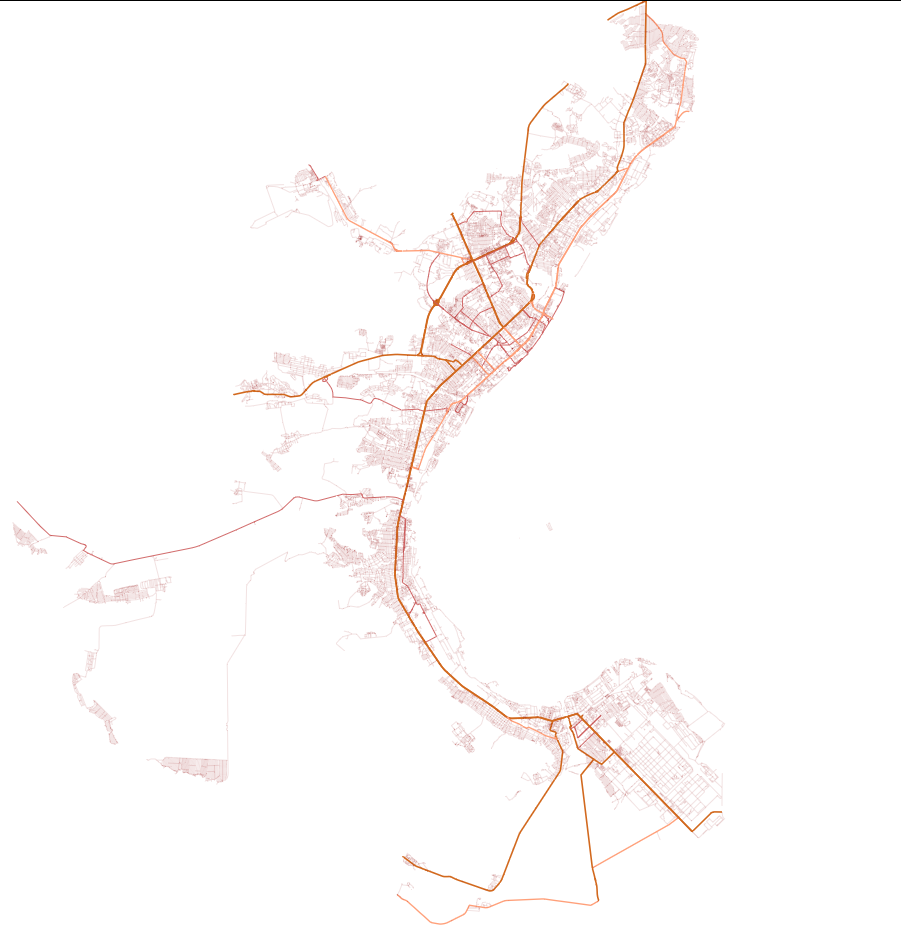
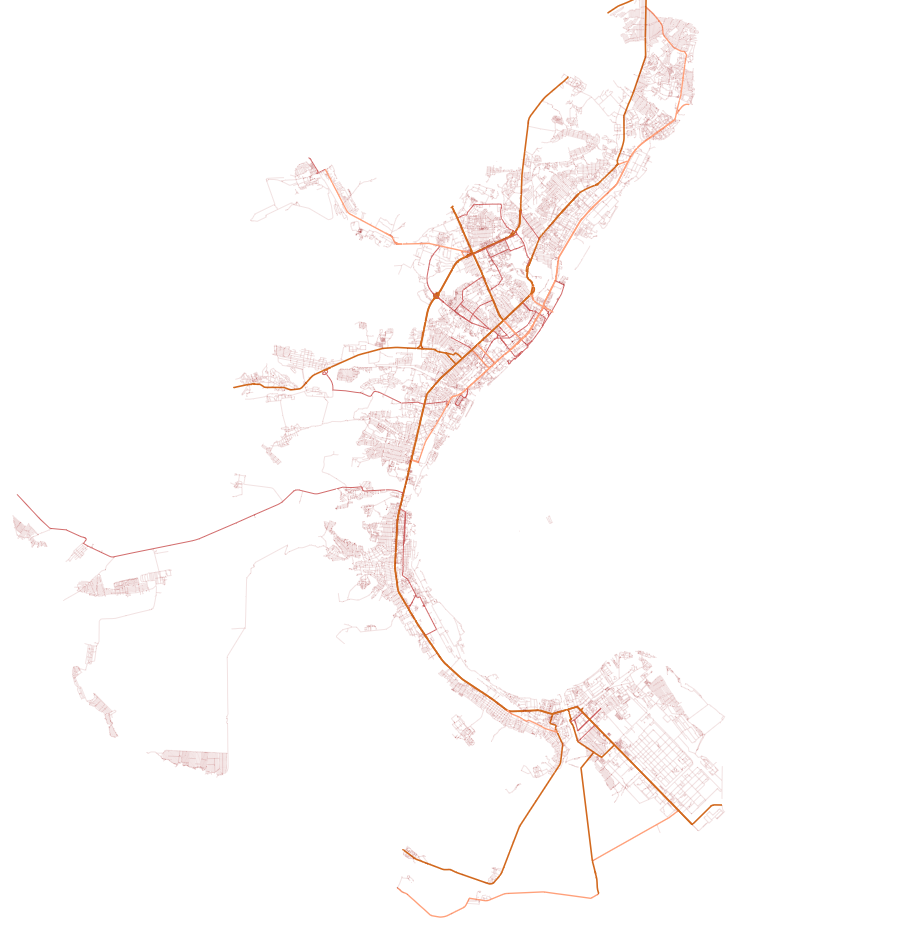
add result for volgograd

diff --git a/docs/volgograd.md b/docs/volgograd.md
@@ -1,6 +1,75 @@
 # Результаты для Волгограда
 
+___
 
-* [Информация о вершинах](https://github.com/bruce-willis/City-Roads/blob/develop/src/Output/nodes_list.csv)
-* [Список смежности](https://github.com/bruce-willis/City-Roads/blob/develop/src/Output/adjacency_list.csv)
-* Визуализация ![Визуализация](resources/volgograd.png)
+* [Визуализация](#визуализация)
+* [Информация о вершинах](#информация-о-вершинах)
+* [Список смежности](#список-смежности)
+* [Матрица смежности](#матрица-смежности)
+
+___
+
+# Визуализация
+
+Для визуализации было выбрано использовать формат `svg`.
+
+Несколько этапов развития проекта (для удобства буду приводить лишь скриншоты)
+
+1. Самое начало - отображение лишь участка, без географических преобразований и подбора ширины линий 
+![begging](resources/begging.jpg)
+2. Отображение всех линий (`way`) 
+![all_ways](resources/all_ways.jpg)
+3. Отображение всех линий, у которых есть ключ `highway`. Хорошо заметен "наклон" карты 
+![highways](resources/highways.jpg)
+4. После выполнения географических преобразований 
+![geo_transform](resources/geo_transform.png)
+5. После удаления неавтомобильных дорог и раскрашивания в зависимости от важности
+![final](resources/volgograd.png)
+
+Волгоград на _openstreetmap_:  
+
+![osm_volgograd](resources/osm_volgograd.png) 
+
+Нетрудно заметить сходство по структуре и форме
+
+Волгоград на _google maps_:  
+
+![google maps](resources/google_maps.png)
+
+*__Итоговую визуализацию__* можно скачать [отсюда](https://github.com/bruce-willis/City-Roads/releases). Файл — `map.svg`
+
+# Информация о вершинах
+
+Построение таблицы вида:
+| Id | Latitude | Longitude | Y | X |
+|----|----------|-----------|---|---|
+Результат для первых 1000 точек можно посмотреть [здесь](../src/Output/nodes_list.csv)
+
+*__Целую таблицу__* можно скачать [отсюда](https://github.com/bruce-willis/City-Roads/releases). Файл — `nodes_list.csv`  
+
+*Примечание*: Если вы открываете таблицу в Excel и данные не разделены по столбцам, воспользуйтесь [данным](https://superuser.com/questions/606272/how-to-get-excel-to-interpret-the-comma-as-a-default-delimiter-in-csv-files/686415#686415) способом
+
+# Список смежности
+
+Построение таблицы вида:
+| Id | Adjacent nodes |
+|----|----------------|
+Результат для первых 1000 точек можно посмотреть [здесь](../src/Output/adjacency_list.csv)
+
+*__Целую таблицу__* можно скачать [отсюда](https://github.com/bruce-willis/City-Roads/releases). Файл — `adjacency_list.csv`  
+*Примечание*: Если вы открываете таблицу в Excel и данные не разделены по столбцам, воспользуйтесь [данным](https://superuser.com/questions/606272/how-to-get-excel-to-interpret-the-comma-as-a-default-delimiter-in-csv-files/686415#686415) способом
+
+# Матрица смежности
+
+Построение таблицы вида:
+|     | ID1 | ID2 | ... | IDN |
+|-----|-----|-----|-----|-----|
+| ID1 | 0   | 1   |     | 0   |
+| ID2 | 1   | 0   |     | 0   |
+| ... |     |     |     |     |
+| IDN | 0   | 0   |     | 0   |
+Где по горизонтали и вертикали - ID вершин, где a<sub>ij</sub> = 1 если есть ребро из вершины *i* в вершину *j* и 0 в противном случае.
+
+Матрица смежности получается крайне огромной - 69'776 x 69'776 размерностью и более 41Гб на диске.
+
+Причем использование этой матрицы крайне неоправданно — в графе всего лишь 272`855 из 2'434'310'200 (что составляет ~0.011% от возможного) — то есть граф является *сильно разряженным* и большинство элементов в этой матрице будут нулевыми
